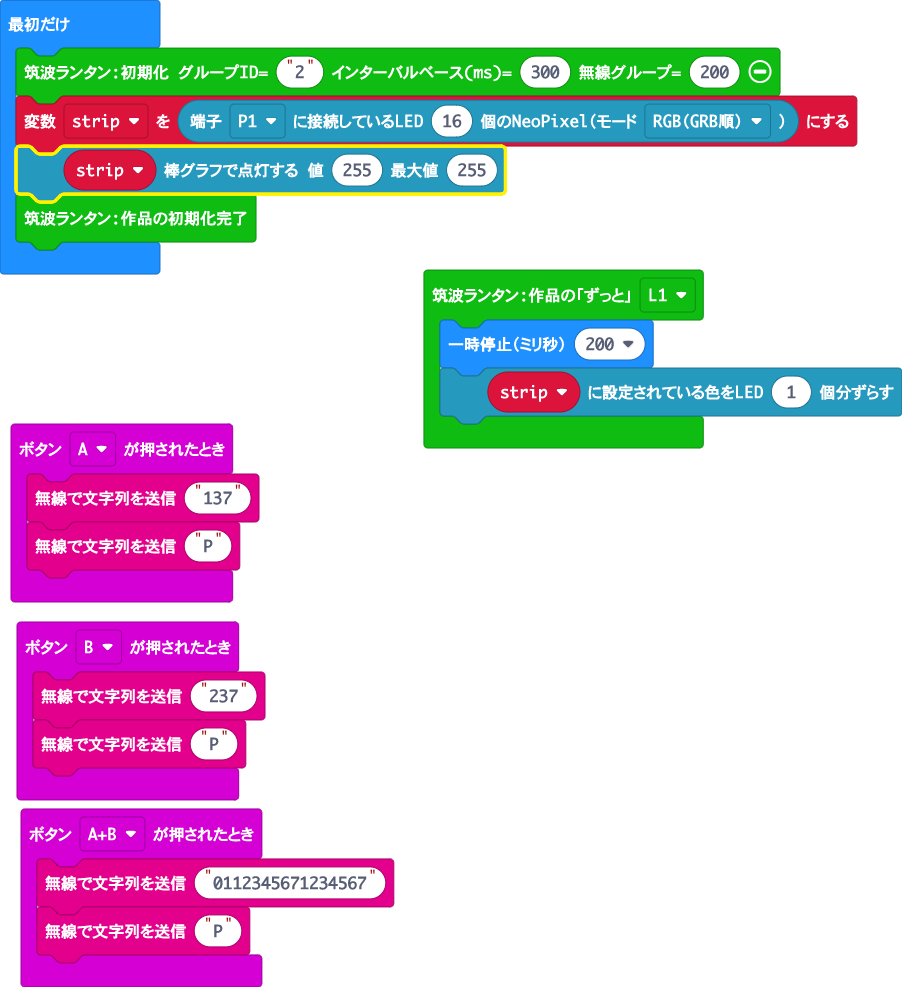
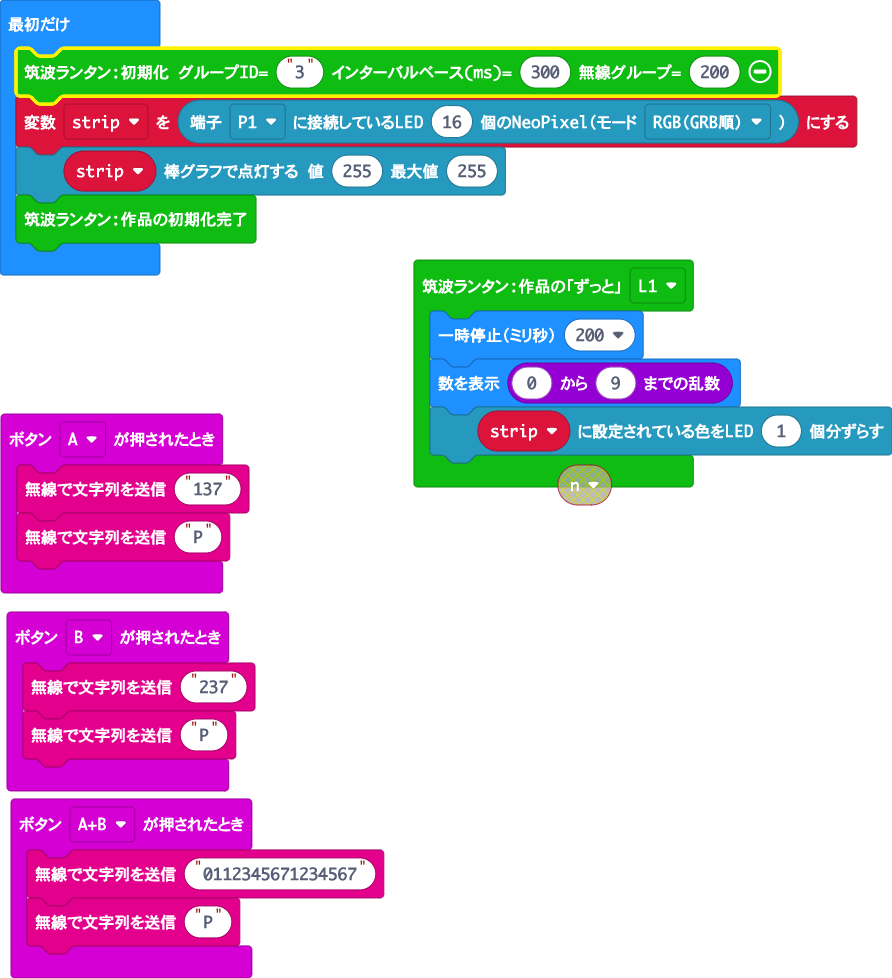
更新 pxt.json, main.blocks, main.ts, custom.ts

Changed region(s): [[0.0, 0.3988, 0.454, 1.0], [0.0, 0.0, 0.9686, 0.3067], [0.454, 0.2454, 1.0, 0.5215]]

diff --git a/custom.ts b/custom.ts
@@ -14,7 +14,7 @@ namespace TukubaLantern {
     let initialized = false
     let userInitialized = false
     let playStarted = false;
-    let strip: neopixel.Strip = null
+    let stripPMode: neopixel.Strip = null
     let userInits: Array<() => void> = []
     let mode: "U" | "P" = "U"
     let groupId: string = "1"
@@ -41,7 +41,7 @@ namespace TukubaLantern {
 
     function lanternGroupID(g: string): void {
         g = g.substr(0, 1)
-        if (0 < g.length && "123456789".includes(g)) {
+        if (g.length == 1 && "123456789".includes(g)) {
             groupId = g
         } else {
             groupId = "1"
@@ -55,7 +55,7 @@ namespace TukubaLantern {
     }
 
     //% blockId="lantern_init"
-    //% block="筑波ランタン:初期化 グループID=%groupId || インターバルベース(ms)=%intervalBase_ 無線グループ=%radioGroup_"
+    //% block="筑波ランタン:初期化 グループID=$groupId_ || インターバルベース(ms)=$intervalBase_ 無線グループ=$radioGroup_"
     //% expandableArgumentMode="toggle"
     //% group="初期化と実行"
     //% weight=19
@@ -81,8 +81,8 @@ namespace TukubaLantern {
         // 無線で受け取った文字列をパースさせる
         radio.onReceivedString(inputData)
         // LEDの初期化
-        strip = neopixel.create(DigitalPin.P1, 16, NeoPixelMode.RGB)
-        strip.showColor(neopixel.rgb(0, 0, 0))
+        stripPMode = neopixel.create(DigitalPin.P1, 16, NeoPixelMode.RGB)
+        stripPMode.showColor(neopixel.rgb(0, 0, 0))
         // 起動時にグループIDを表示する
         basic.showString(groupId_)
         basic.pause(500)
@@ -122,7 +122,7 @@ namespace TukubaLantern {
                 inputData("U")
                 return
             }
-            strip.showColor(colors.pop())
+            stripPMode.showColor(colors.pop())
             basic.pause(interval)
         }
     }
@@ -134,7 +134,7 @@ namespace TukubaLantern {
     export function inputData(data: string) {
         const c0 = data.substr(0, 1)
         if (c0 === "P") {
-            strip.showColor(neopixel.rgb(0, 0, 0))
+            stripPMode.showColor(neopixel.rgb(0, 0, 0))
             mode = "P"
             return
         }
@@ -142,7 +142,7 @@ namespace TukubaLantern {
             if (mode === "P") {
                 // ユーザモードへの復帰はリセットで行う。
                 // リセットだけだとLEDが最後の状態のままになってしまうので消しておく
-                strip.showColor(neopixel.rgb(0, 0, 0))
+                stripPMode.showColor(neopixel.rgb(0, 0, 0))
                 // 作品の「最初だけ」をグローバルスコープで実行する方法が他に無い為
                 control.reset()
             }

diff --git a/main.ts b/main.ts
@@ -4,6 +4,7 @@ input.onButtonPressed(Button.A, function () {
 })
 TukubaLantern.userLoop(TukubaLantern.UserLoops.L1, function () {
     basic.pause(200)
+    basic.showNumber(randint(0, 9))
     strip.shift(1)
 })
 input.onButtonPressed(Button.AB, function () {
@@ -15,7 +16,7 @@ input.onButtonPressed(Button.B, function () {
     radio.sendString("P")
 })
 let strip: neopixel.Strip = null
-TukubaLantern.lanternInit("2", 300, 200)
+TukubaLantern.lanternInit("3", 300, 200)
 strip = neopixel.create(DigitalPin.P1, 16, NeoPixelMode.RGB)
 strip.showBarGraph(255, 255)
 TukubaLantern.lanternUserInitialized()
